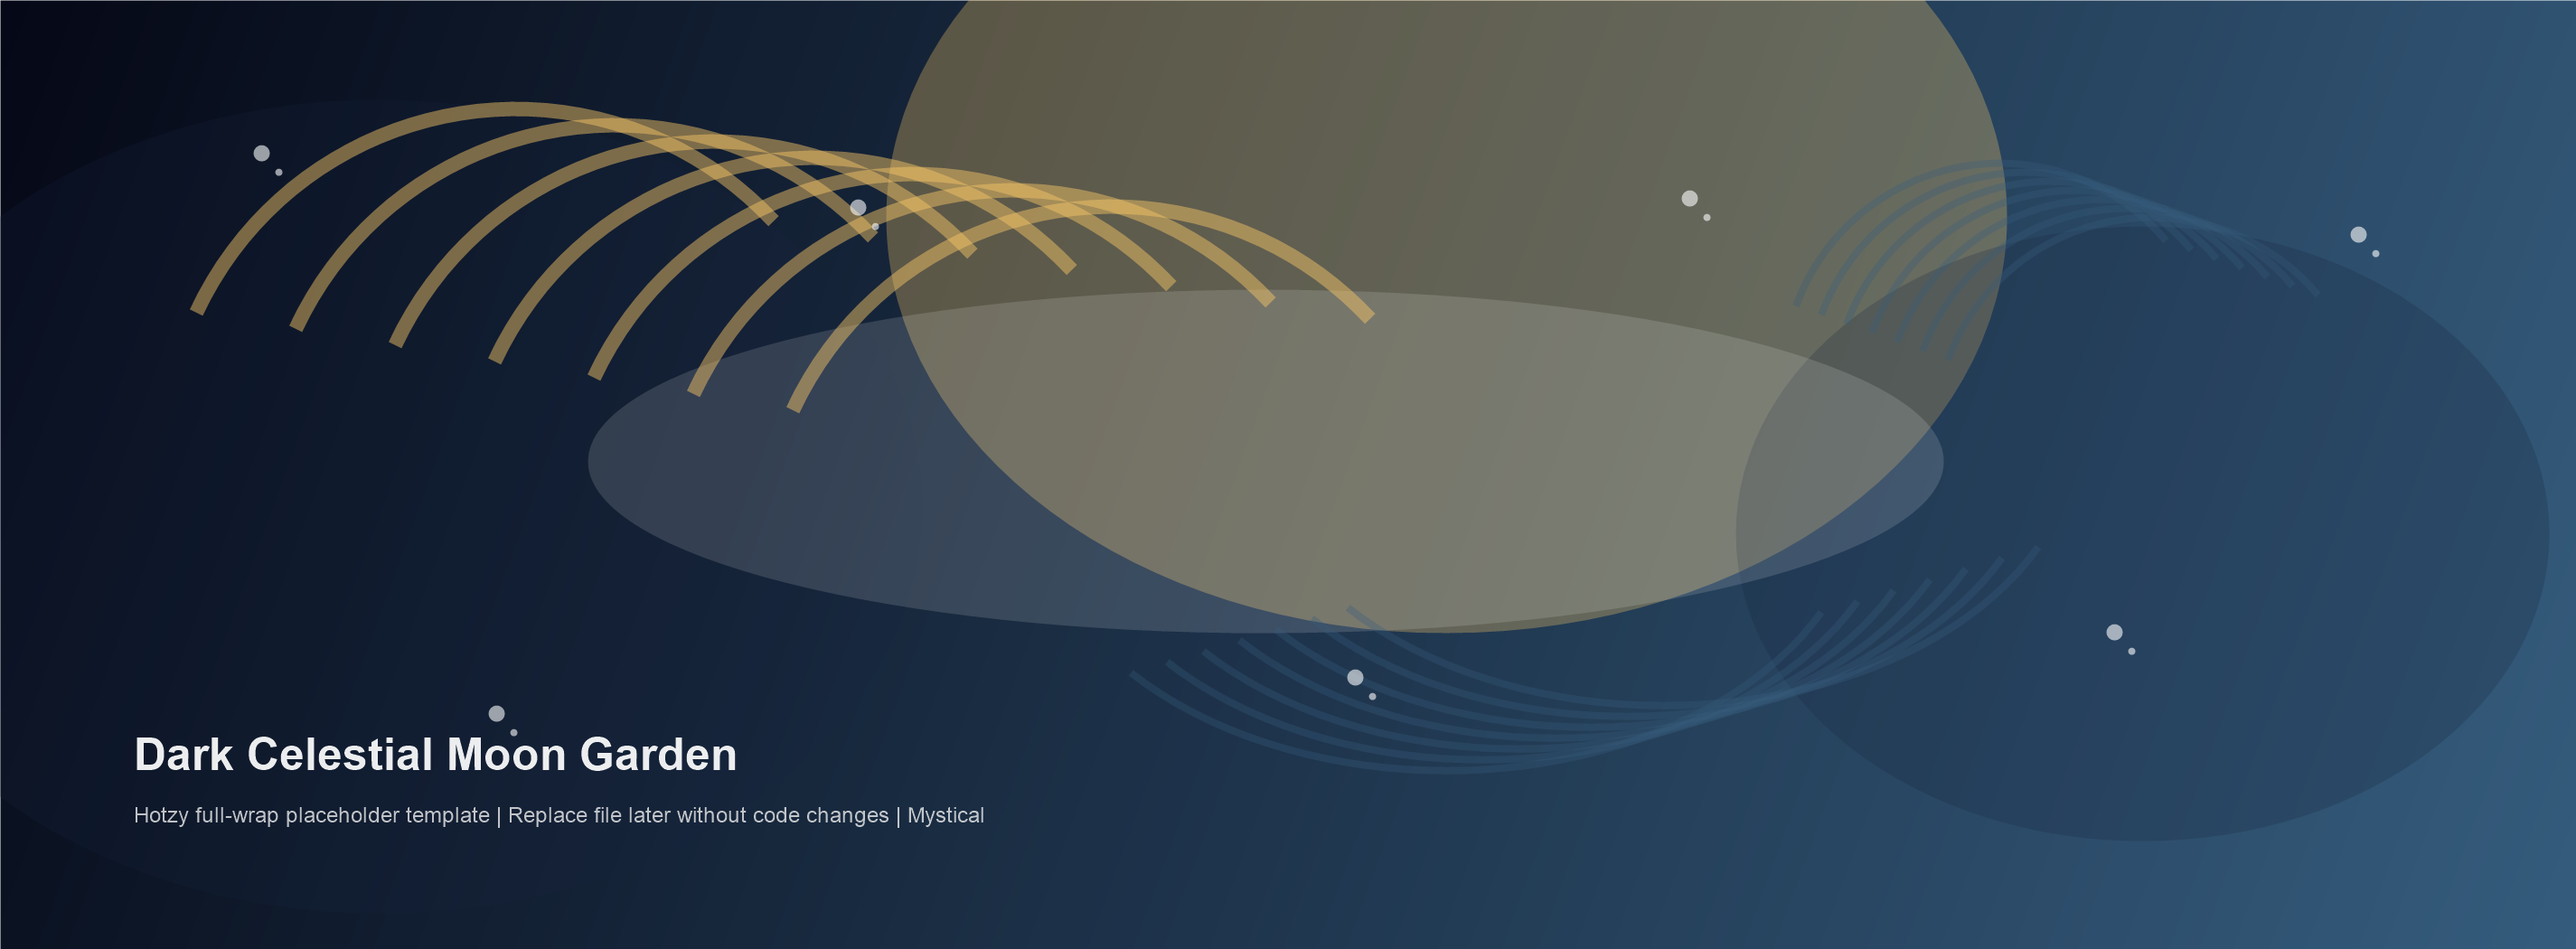
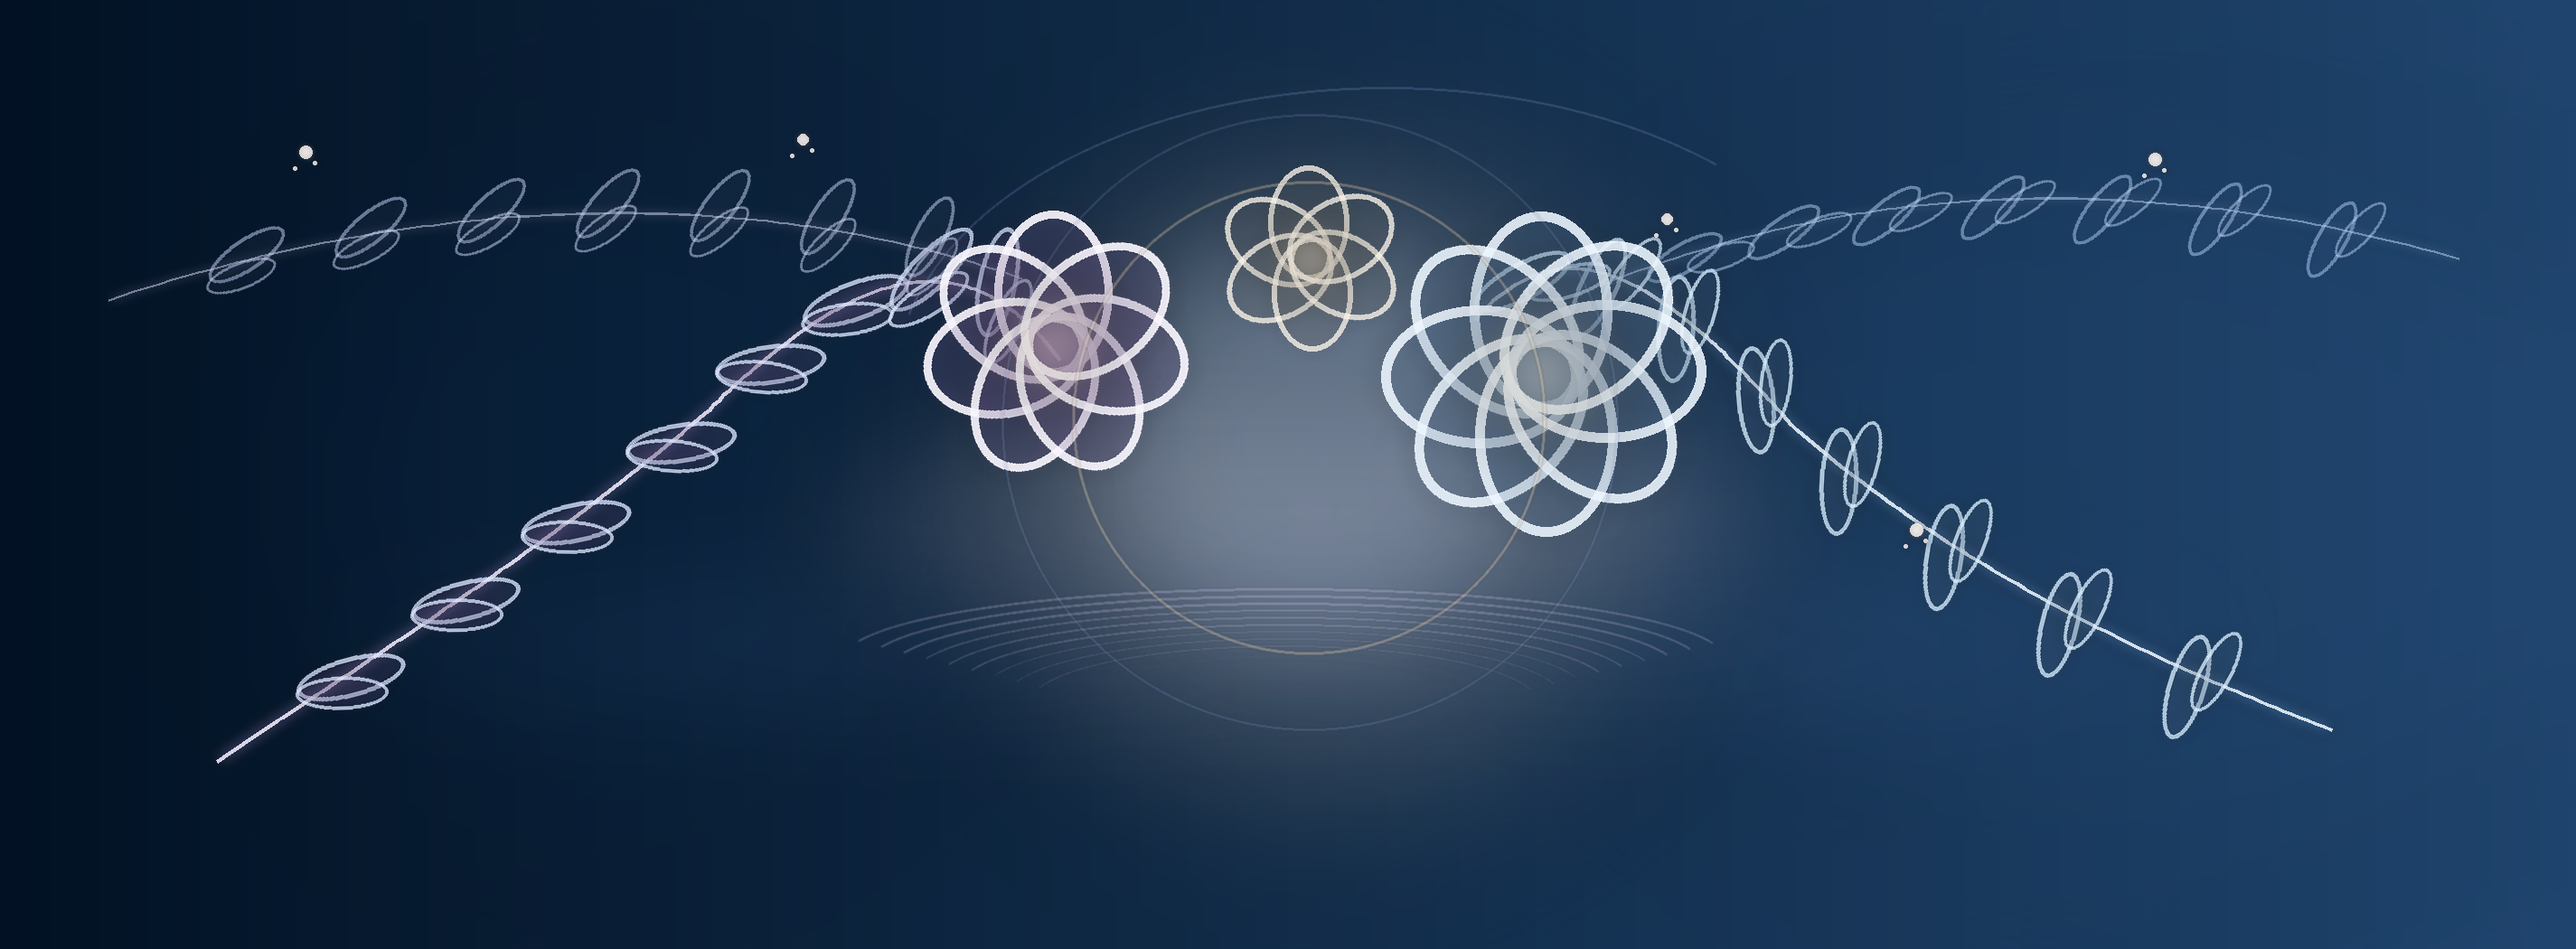
Upgrade premium mystical mug template assets

diff --git a/src/lib/design-templates.ts b/src/lib/design-templates.ts
@@ -303,17 +303,17 @@ const websiteCustomizerTemplates: DesignTemplate[] = [
   }),
   createCustomizerTemplate({
     id: 'website-dark-celestial-moon-garden',
-    name: 'Dark Celestial Moon Garden',
+    name: 'Celestial Bloom Nocturne',
     image: '/templates/dark-celestial-moon-garden.png',
     category: 'mystical',
-    tags: ['mystical', 'celestial', 'night'],
+    tags: ['mystical', 'celestial', 'nocturne'],
   }),
   createCustomizerTemplate({
     id: 'website-gothic-butterfly-night',
-    name: 'Gothic Butterfly Night',
+    name: 'Moonlit Botanical Veil',
     image: '/templates/gothic-butterfly-night.png',
     category: 'floral',
-    tags: ['gothic', 'butterfly', 'night'],
+    tags: ['moonlit', 'botanical', 'veil'],
   }),
   createCustomizerTemplate({
     id: 'website-enchanted-forest-silhouette',
